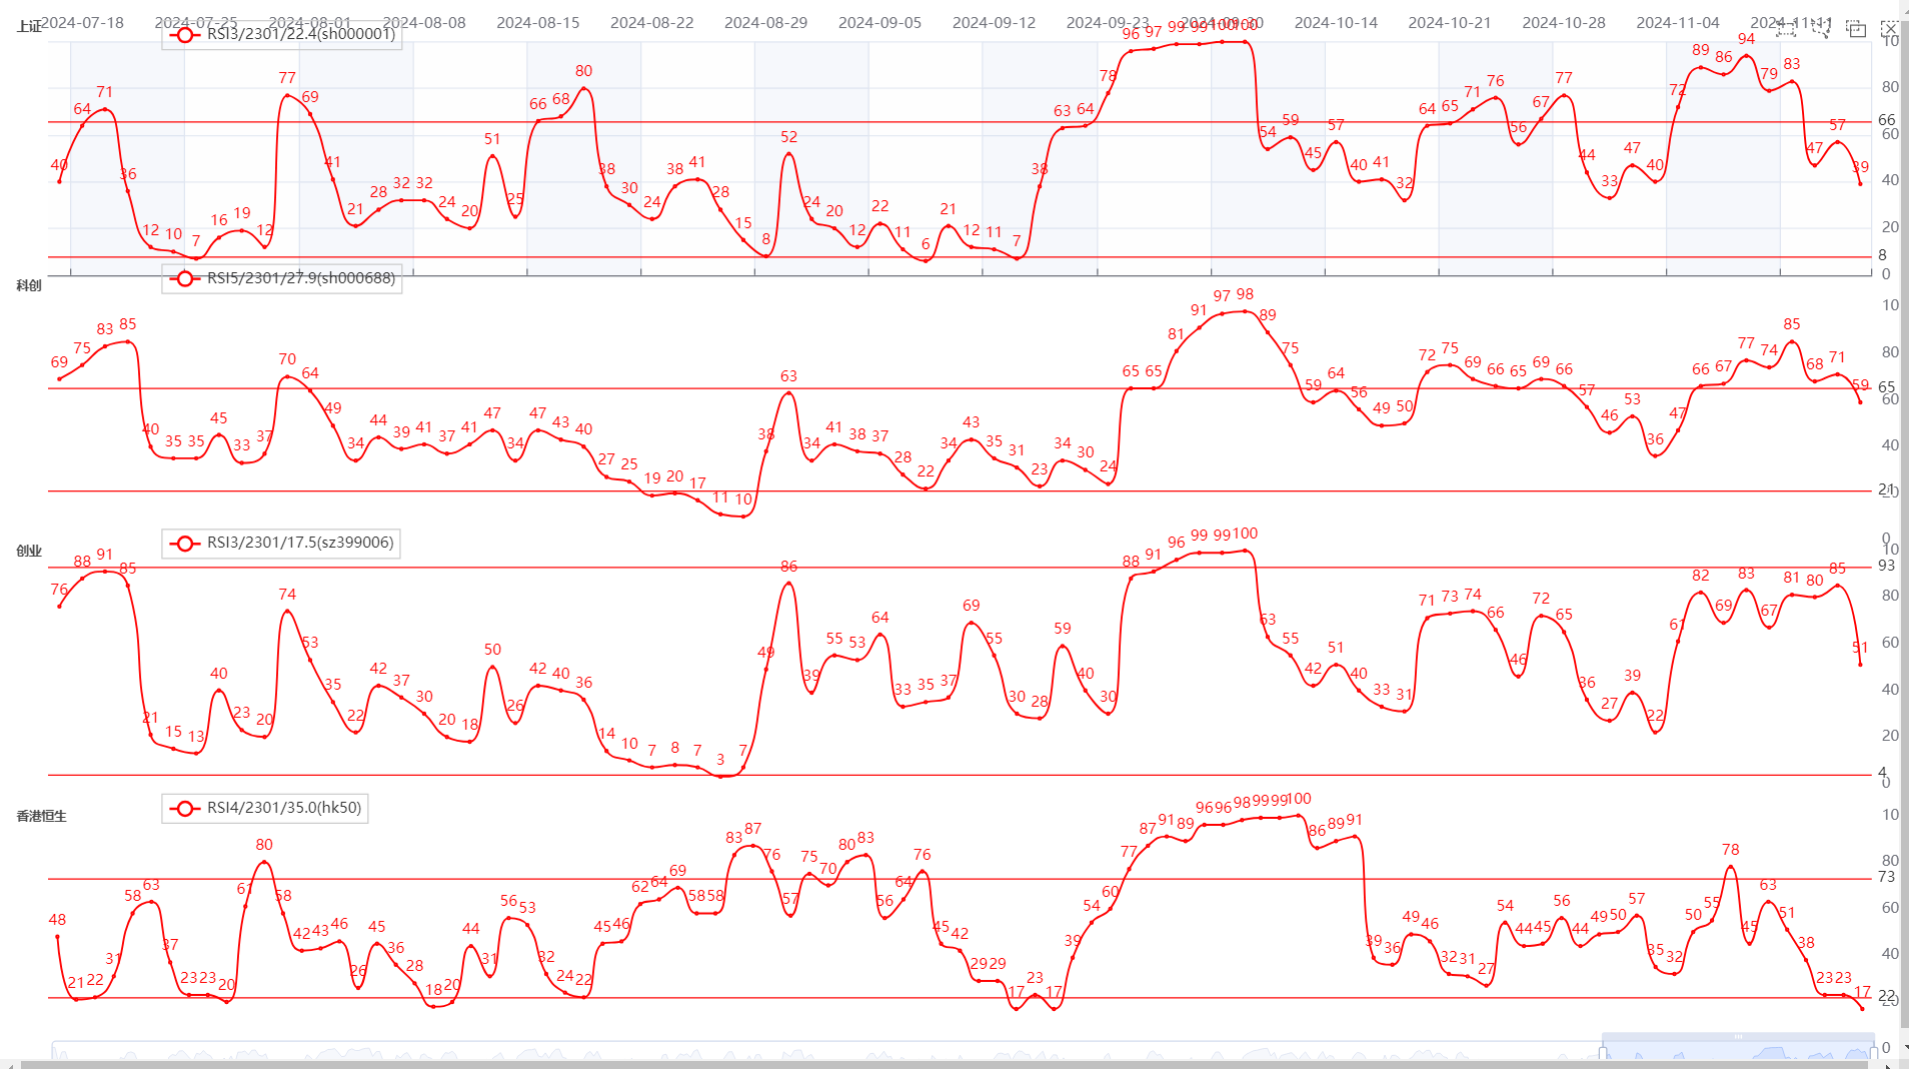
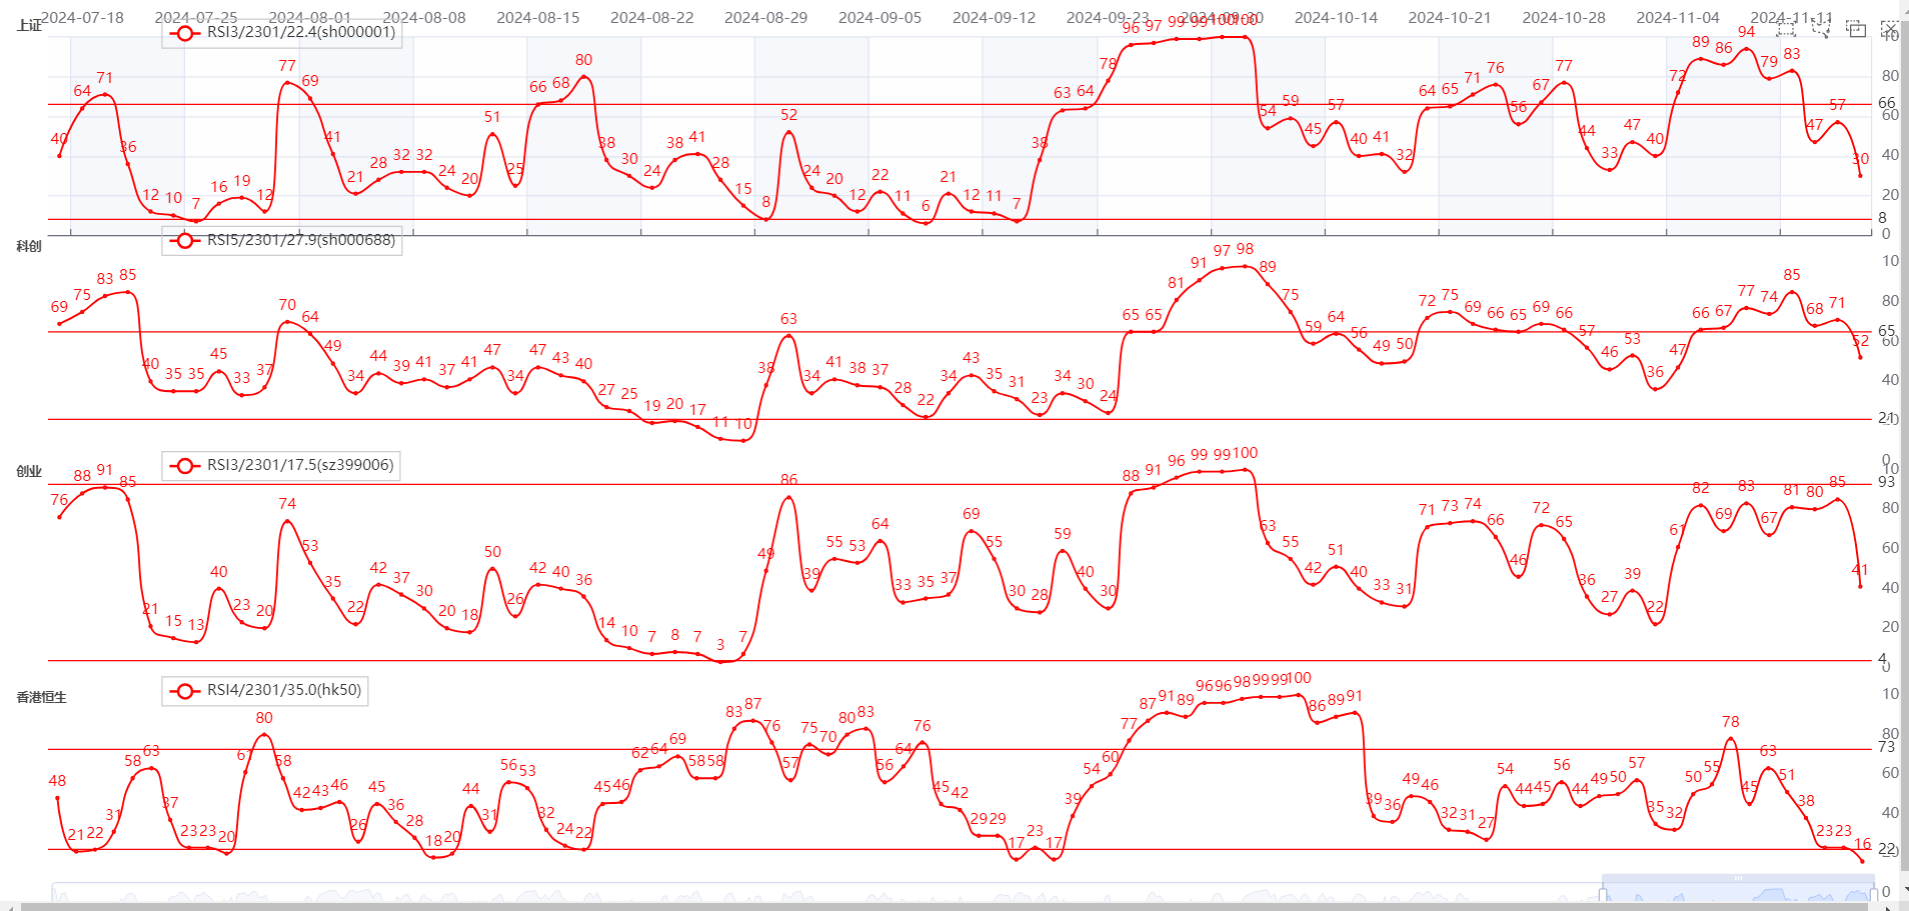
20241114

diff --git a/index_cn.html b/index_cn.html
@@ -13,11 +13,11 @@
     </style>
 </head>
 <body onresize="resizeFresh()"  >
-    <div id="c1eb6d2359fa4c17b514632657294c81" class="chart-container" style="width:100%; height:100%; "></div>
+    <div id="6435f9f537474a46bf639bc20e1c6d5f" class="chart-container" style="width:100%; height:100%; "></div>
     <script>
-        var chart_c1eb6d2359fa4c17b514632657294c81 = echarts.init(
-            document.getElementById('c1eb6d2359fa4c17b514632657294c81'), 'white', {renderer: 'canvas'});
-        var option_c1eb6d2359fa4c17b514632657294c81 = {
+        var chart_6435f9f537474a46bf639bc20e1c6d5f = echarts.init(
+            document.getElementById('6435f9f537474a46bf639bc20e1c6d5f'), 'white', {renderer: 'canvas'});
+        var option_6435f9f537474a46bf639bc20e1c6d5f = {
     "animation": true,
     "animationThreshold": 2000,
     "animationDuration": 1000,
@@ -2167,7 +2167,7 @@
                 ],
                 [
                     "2024-11-14",
-                    39.0
+                    30.0
                 ]
             ],
             "hoverAnimation": false,
@@ -4351,7 +4351,7 @@
                 ],
                 [
                     "2024-11-14",
-                    59.0
+                    52.0
                 ]
             ],
             "hoverAnimation": false,
@@ -6535,7 +6535,7 @@
                 ],
                 [
                     "2024-11-14",
-                    51.0
+                    41.0
                 ]
             ],
             "hoverAnimation": false,
@@ -9167,7 +9167,7 @@
                 ],
                 [
                     "2024-11-14",
-                    17.0
+                    16.0
                 ]
             ],
             "hoverAnimation": false,
@@ -12040,9 +12040,9 @@
         }
     ]
 };
-        chart_c1eb6d2359fa4c17b514632657294c81.setOption(option_c1eb6d2359fa4c17b514632657294c81);
+        chart_6435f9f537474a46bf639bc20e1c6d5f.setOption(option_6435f9f537474a46bf639bc20e1c6d5f);
             window.addEventListener('resize', function(){
-                chart_c1eb6d2359fa4c17b514632657294c81.resize();
+                chart_6435f9f537474a46bf639bc20e1c6d5f.resize();
             })
     </script>
     
